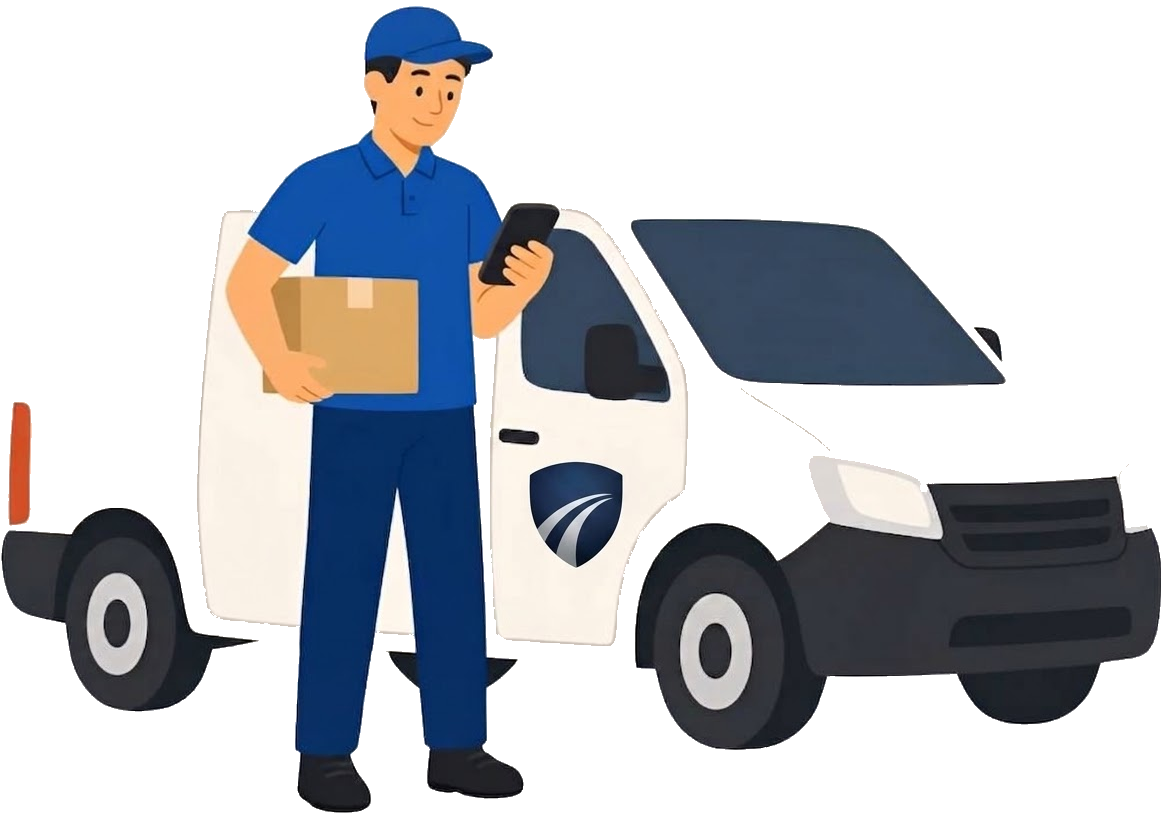
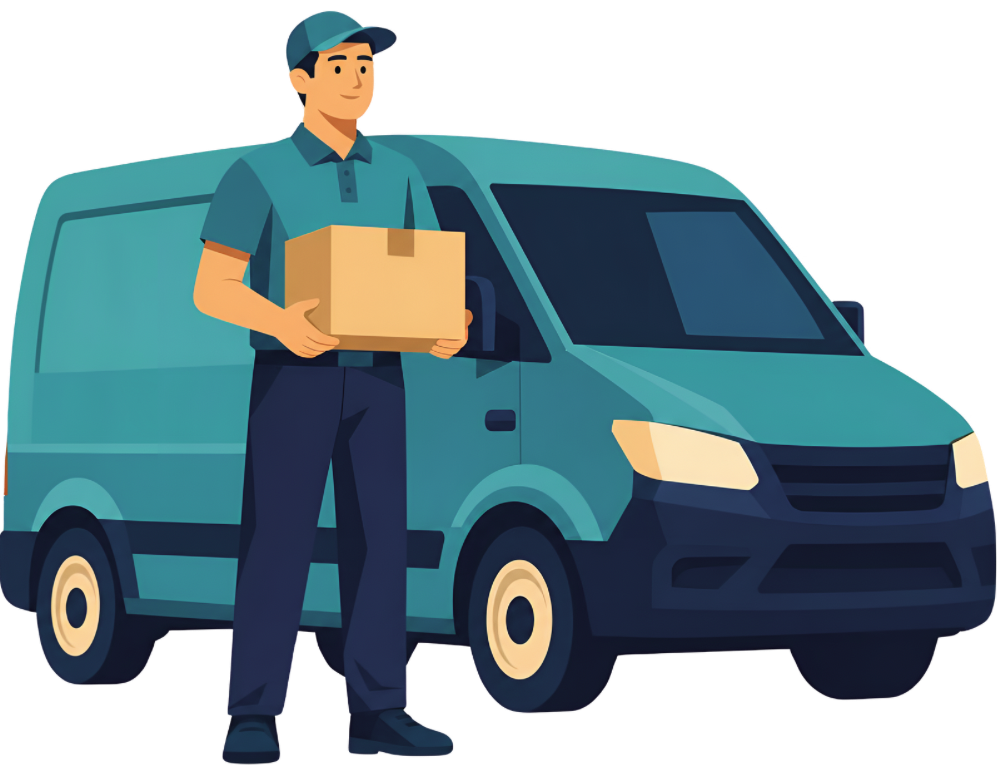
Swap hero illustration to the new teal van/driver artwork
Replace the white van illustration with the new one the owner sent
(teal van, teal-uniformed driver, no door logo). The image already
had a clean transparent background, so no removal was needed, just
cropped the transparent padding and updated the hero's aspect ratio
to match (1000x775). The teal color reads well against the dark hero
background on its own.

Verified with a full next build (all 21 routes, zero errors).

Claude-Session: https://claude.ai/code/session_01BYWxM8vrx9cyowNG7vrWEE

diff --git a/src/sections/hero.tsx b/src/sections/hero.tsx
@@ -107,7 +107,7 @@ export default function Hero() {
           <SlideEffect
             direction="left"
             isSpring={false}
-            className="relative w-full max-w-[22rem] mx-auto lg:max-w-[30rem] aspect-[1163/819]"
+            className="relative w-full max-w-[22rem] mx-auto lg:max-w-[30rem] aspect-[1000/775]"
           >
             {/* Soft light glow so the white van reads clearly against the dark background */}
             <div
